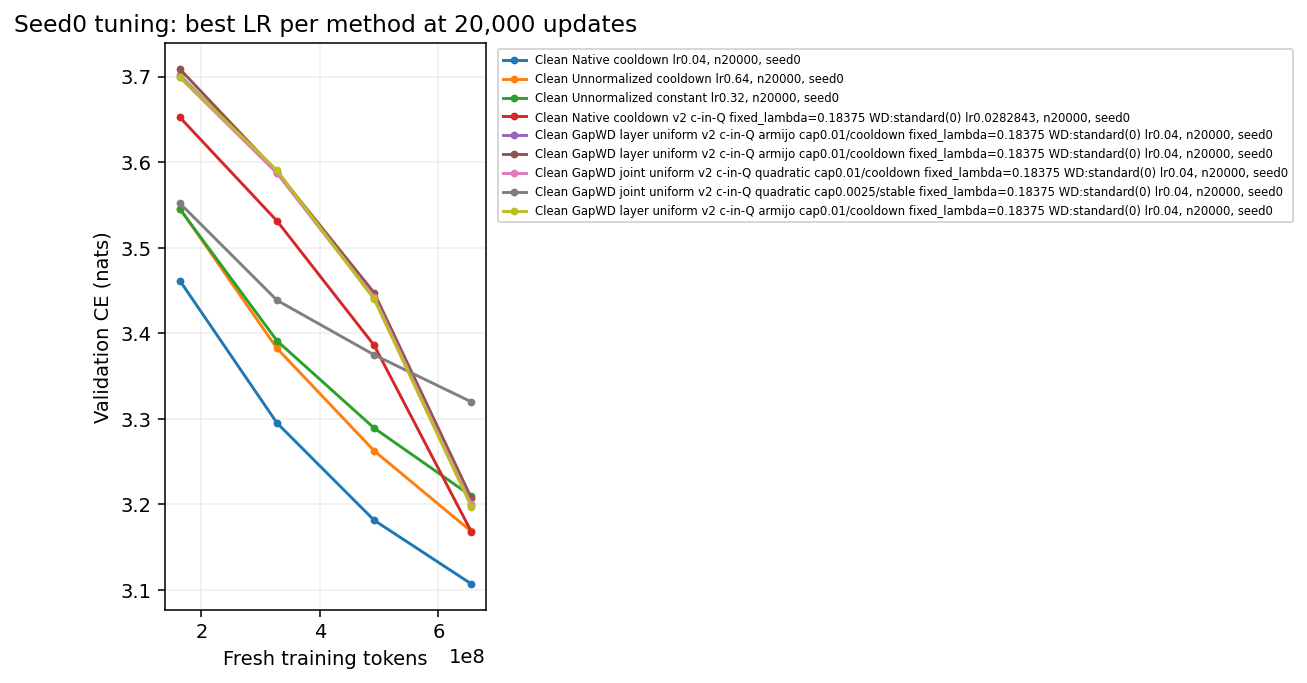
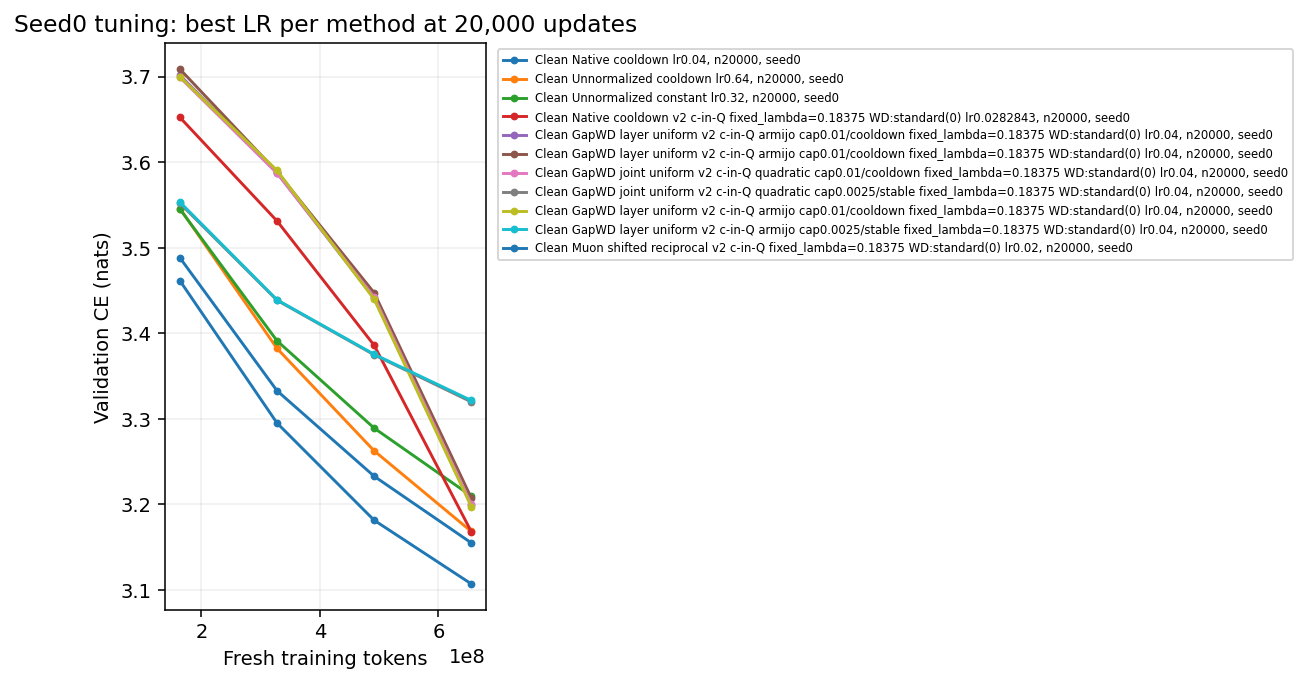
Update live Muon experiment results

diff --git a/research/unnormalized_muon/RESULTS.md b/research/unnormalized_muon/RESULTS.md
@@ -80,6 +80,9 @@ One B300 per job. CE is token cross-entropy (nats); lower is better. Rows with d
 | um-lens-long-joint-cooldown | Clean GapWD joint uniform v2 c-in-Q quadratic cap0.01/cooldown fixed_lambda=0.18375 WD:standard(0) | 20000 | 0 | 0.04 | 3.200458 | 0.970313 | — | 1931.00 |
 | um-lens-long-joint-stable | Clean GapWD joint uniform v2 c-in-Q quadratic cap0.0025/stable fixed_lambda=0.18375 WD:standard(0) | 20000 | 0 | 0.04 | 3.319987 | 1.006466 | — | 1867.68 |
 | um-lens-long-layer-cooldown | Clean GapWD layer uniform v2 c-in-Q armijo cap0.01/cooldown fixed_lambda=0.18375 WD:standard(0) | 20000 | 0 | 0.04 | 3.197616 | 0.969468 | — | 1828.08 |
+| um-lens-long-layer-stable | Clean GapWD layer uniform v2 c-in-Q armijo cap0.0025/stable fixed_lambda=0.18375 WD:standard(0) | 20000 | 0 | 0.04 | 3.321643 | 1.007028 | — | 1813.94 |
+| um-lens-long-reciprocal-0 | Clean Muon shifted reciprocal v2 c-in-Q fixed_lambda=0.18375 WD:standard(0) | 20000 | 0 | 0.02 | 3.155148 | 0.956583 | — | 770.45 |
+| um-lens-long-reciprocal-1 | Clean Muon shifted reciprocal v2 c-in-Q fixed_lambda=0.18375 WD:standard(0) | 20000 | 0 | 0.04 | 3.155272 | 0.956567 | — | 762.24 |
 | um-lens-main-control-lr0p02 | Clean Native cooldown v2 c-in-Q fixed_lambda=0.18375 WD:standard(0) | 2000 | 0 | 0.02 | 3.568986 | 1.081936 | — | 141.52 |
 | um-lens-main-control-lr0p04 | Clean Native cooldown v2 c-in-Q fixed_lambda=0.18375 WD:standard(0) | 2000 | 0 | 0.04 | 3.554822 | 1.077668 | — | 133.67 |
 | um-lens-main-control-lr0p08 | Clean Native cooldown v2 c-in-Q fixed_lambda=0.18375 WD:standard(0) | 2000 | 0 | 0.08 | 3.586261 | 1.087199 | — | 139.40 |
@@ -172,7 +175,7 @@ One B300 per job. CE is token cross-entropy (nats); lower is better. Rows with d
 
 Review of um-fw-diagnostic-001: Compiled training f0 compared against functional candidate losses; vanishing-step mismatch2-4e-5 exceeded tolerance, leading to curvature1e186 and45 skipped steps. Replaced by paired functional reference and candidates; retain all645 measured forwards and GPUcost.
 
-Conservative charged/reserved total: 16.5879 / 30 B300 GPU-hours. Includes prior smoke/failed attempts and current maximum-duration reservations. Six-slot central queue; one B300 per run.
+Conservative charged/reserved total: 14.8204 / 30 B300 GPU-hours. Includes prior smoke/failed attempts and current maximum-duration reservations. Six-slot central queue; one B300 per run.
 
 CLEAN geometry disables row equilibration and NorMuon. Original clean runs use zero matrix decay; new WD runs explicitly label standard or cautious decay and their CLI coefficient. Same five Polar Express steps and Frobenius correction; scale by the per-matrix nonnegative FP32 inner product of the native Nesterov input with the NS/Frobenius direction. Shape scaling occurs once outside the scalar. Legacy rows retain production extras and must be compared separately. Constant schedule changes only matrix LR; auxiliary schedules and momentum remain matched.
 
